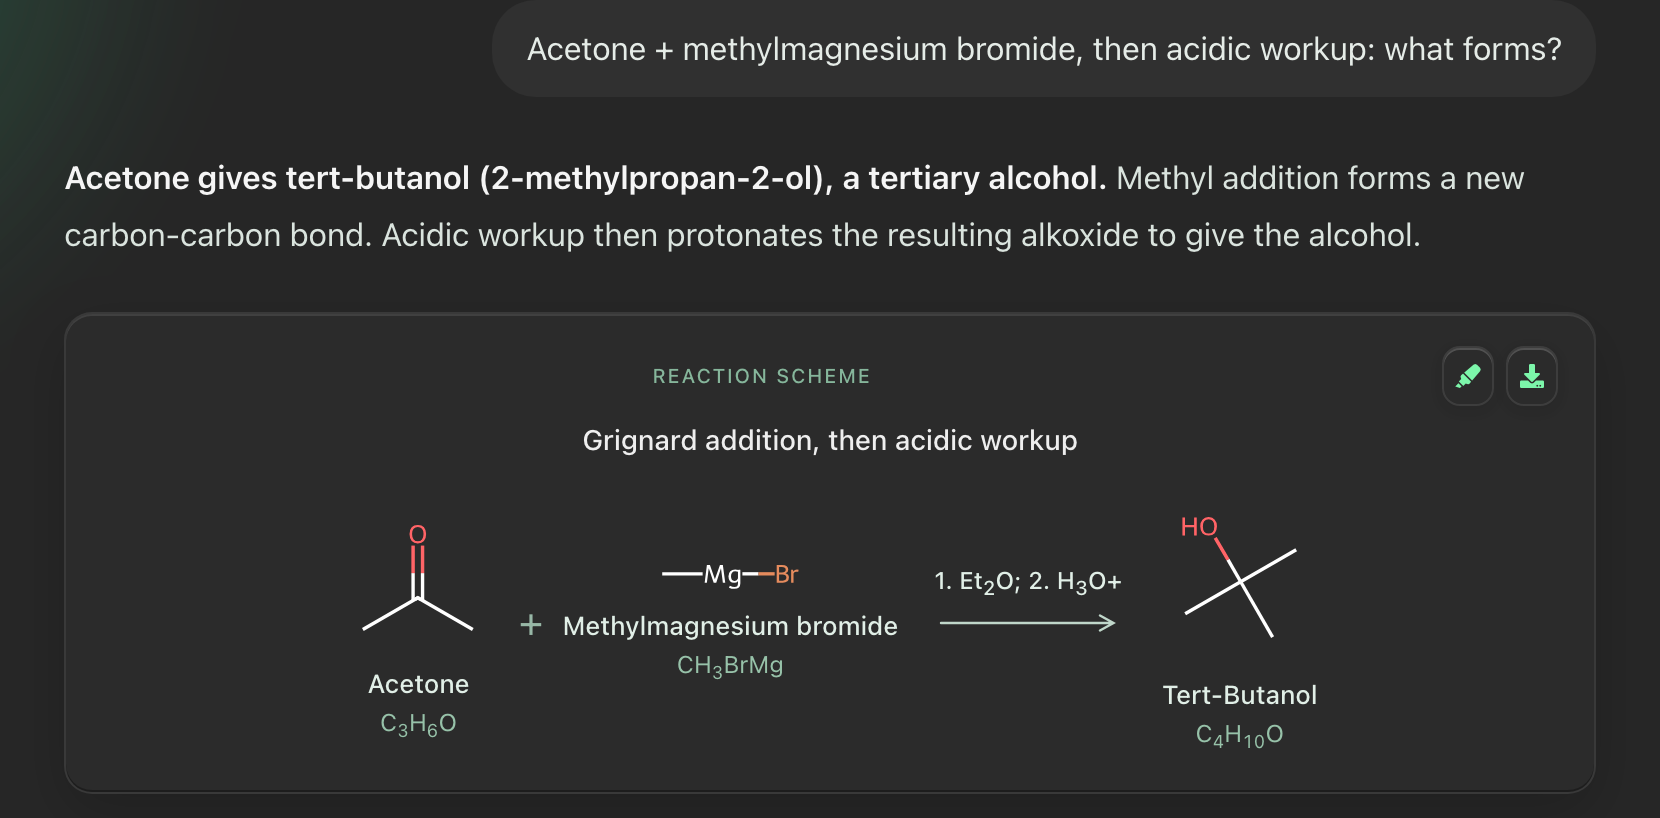
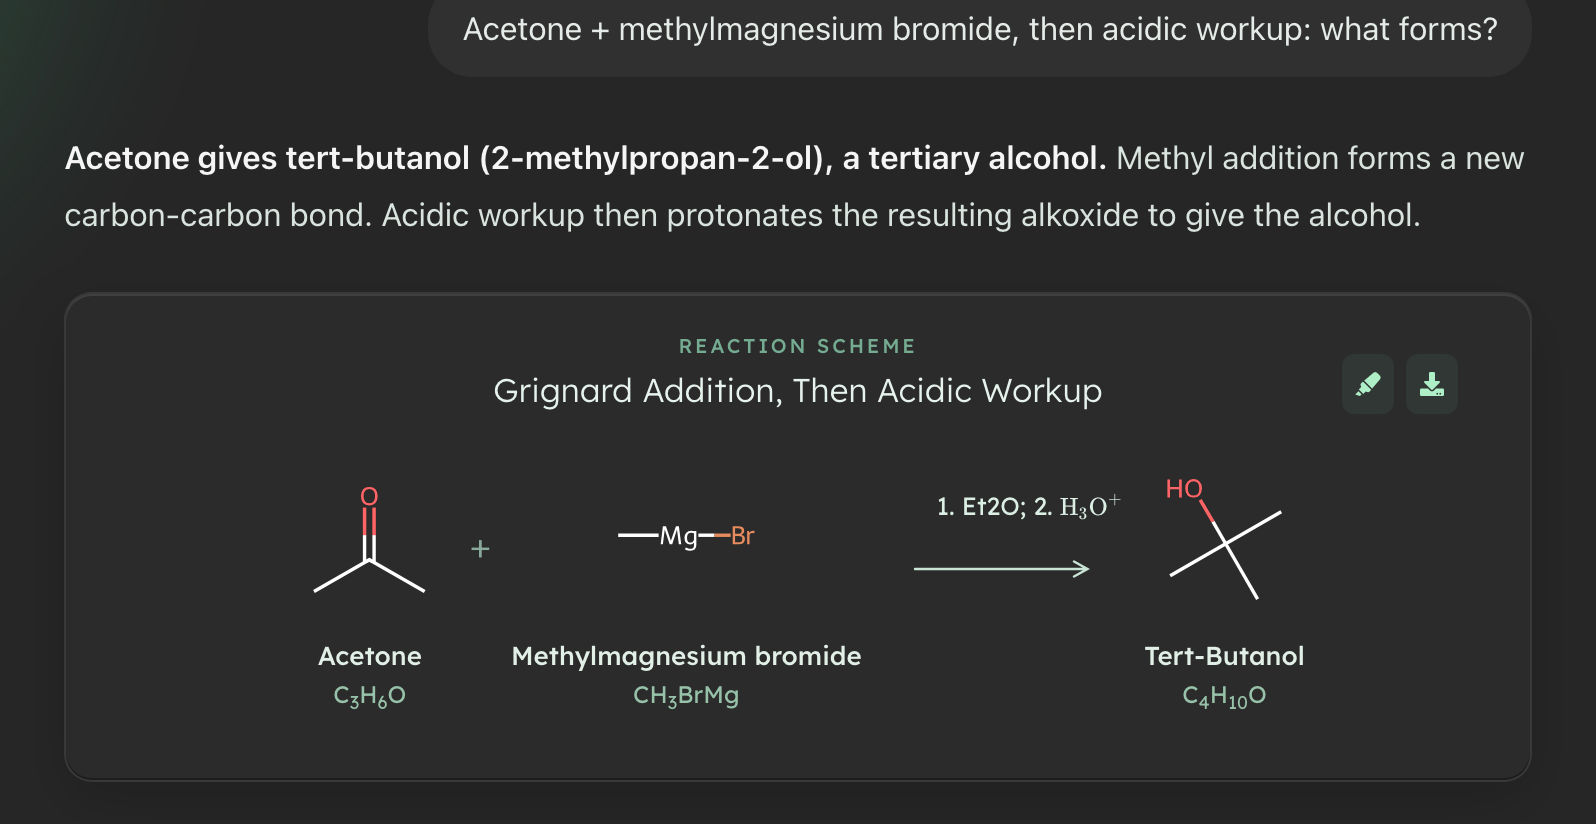
Fresh macOS screenshots for the README and website

diff --git a/website/index.html b/website/index.html
@@ -1,7 +1,7 @@
 <!doctype html>
 <html lang="en"><head><meta charset="utf-8"><meta name="viewport" content="width=device-width,initial-scale=1"><meta name="theme-color" content="#090d0b"><meta name="description" content="ChemEZ is a desktop AI chemistry tutor with molecular structures, reaction schemes, and mechanisms drawn directly in your answers."><title>ChemEZ · See the chemistry.</title><link rel="icon" href="assets/logo.png"><link rel="stylesheet" href="style.css"></head>
 <body><header class="nav wrap"><a class="brand" href="#"><img src="assets/logo.png" alt="" width="32" height="32">Chem<span>EZ</span></a><nav aria-label="Main navigation"><a href="#features">Features</a><a href="#download">Download</a><a href="https://github.com/researchbyayan/ChemEZ">GitHub ↗</a></nav></header>
-<main><section class="hero wrap"><h1>Don’t just read it.<br><em>See the chemistry.</em></h1><p class="intro">Your desktop AI chemistry tutor. Molecular structures, reaction schemes, and electron movement, drawn right into the explanation.</p><div class="actions"><a class="button primary" href="#download">Get ChemEZ <span>↓</span></a><a class="button" href="#demo">See it in action <span>↗</span></a></div><p class="small">Free for Mac, Windows and Linux · Bring your own API key · Open source</p><div class="preview" id="demo"><img src="assets/workspace.png" alt="ChemEZ desktop workspace with a benzene-to-chlorobenzene synthesis question, mechanism mode, chat history, and structure library." width="1440" height="814" loading="eager"></div><div class="preview answer-preview"><div class="preview-bar"><span class="dot"></span> ONE QUESTION. AN ANSWER YOU CAN SEE.<span class="tag">CHEMEZ DESKTOP</span></div><img src="assets/demo.png" alt="ChemEZ explains how acetone and methylmagnesium bromide produce tert-butanol, with a drawn reaction and molecular formulas." width="1638" loading="lazy"><p class="caption">A reproducible sample answer, rendered through ChemEZ and RDKit.</p></div></section>
+<main><section class="hero wrap"><h1>Don’t just read it.<br><em>See the chemistry.</em></h1><p class="intro">Your desktop AI chemistry tutor. Molecular structures, reaction schemes, and electron movement, drawn right into the explanation.</p><div class="actions"><a class="button primary" href="#download">Get ChemEZ <span>↓</span></a><a class="button" href="#demo">See it in action <span>↗</span></a></div><p class="small">Free for Mac, Windows and Linux · Bring your own API key · Open source</p><div class="preview" id="demo"><img src="assets/workspace.png" alt="ChemEZ on macOS: a benzene-to-chlorobenzene mechanism question in the message box, named chats in the sidebar, and the structure library." width="1280" height="780" loading="eager"></div><div class="preview answer-preview"><div class="preview-bar"><span class="dot"></span> ONE QUESTION. AN ANSWER YOU CAN SEE.<span class="tag">CHEMEZ DESKTOP</span></div><img src="assets/demo.png" alt="ChemEZ explains how acetone and methylmagnesium bromide produce tert-butanol, with a drawn reaction and molecular formulas." width="1596" height="824" loading="lazy"><p class="caption">A reproducible sample answer, rendered through ChemEZ and RDKit.</p></div></section>
 <section class="wrap section" id="features"><div class="eyebrow">FROM A MOLECULE TO A MECHANISM</div><h2>Chemistry has a visual language.</h2><p class="section-intro">ChemEZ brings it into the conversation.</p><div class="features"><article><span class="number">01 / STRUCTURES</span><h3>Start with the molecule.</h3><p>Validated 2D drawings, IUPAC names, molecular formulas, interactive 3D exploration, and PNG exports.</p></article><article><span class="number">02 / REACTIONS</span><h3>Follow the transformation.</h3><p>See reactants, products, reagents, and conditions together in a readable reaction scheme.</p></article><article><span class="number">03 / MECHANISMS</span><h3>Follow the electrons.</h3><p>Explore resonance contributors, lone pairs, formal charges, and curved arrows, with 24 labelled mechanism families and fishhook arrows for radicals.</p></article><article><span class="number">04 / SPECTRA</span><h3>Read the peaks.</h3><p>IR, ¹H and ¹³C NMR, and mass spectra plotted from the answer’s peak tables, with labelled peaks you can highlight.</p></article></div><p class="small next">Spectra, mechanism families, typeset formulas and DOI-linked references arrive in the next release. They are on GitHub now.</p><div class="details"><div><h3>Your question. Your pace.</h3><p>Switch between Quick Answer, Explain, and Mechanism modes. Adjust the learning level, attach a chemistry image, or activate a slash command for focused help.</p></div><div><h3>Your model. Your workspace.</h3><p>Connect NVIDIA, Gemini, OpenAI, Anthropic, OpenRouter, or a compatible endpoint. Chats name themselves, search past chats and revisit saved structures. Unit conversions, formula masses and equation balancing run offline. An optional image reader can work alongside your chat model.</p></div></div></section>
 <section class="wrap section downloads" id="download"><div class="eyebrow">TAKE CHEMEZ FOR A SPIN</div><h2>Made for your desktop.</h2><p class="section-intro">The chemistry runtime comes bundled. No separate Python or Node.js installation.</p><div class="download-grid"><a class="download" href="https://github.com/researchbyayan/ChemEZ/releases/download/0.1.3/ChemEZ-0.1.3-mac-arm64.dmg"><span>Mac · Apple Silicon<small>macOS 14+ · DMG</small></span><b aria-hidden="true">↓</b></a><a class="download" href="https://github.com/researchbyayan/ChemEZ/releases/download/0.1.3/ChemEZ-0.1.3-mac-x64.dmg"><span>Mac · Intel<small>macOS 14+ · DMG</small></span><b aria-hidden="true">↓</b></a><a class="download" href="https://github.com/researchbyayan/ChemEZ/releases/download/0.1.3/ChemEZ-0.1.3-win-x64.exe"><span>Windows<small>Windows 10 / 11 · x64 setup</small></span><b aria-hidden="true">↓</b></a><a class="download" href="https://github.com/researchbyayan/ChemEZ/releases/download/0.1.3/ChemEZ-0.1.3-linux-x86_64.AppImage"><span>Linux<small>x64 · AppImage</small></span><b aria-hidden="true">↓</b></a></div><p class="small">Version 0.1.3 · Unsigned builds. Read the <a href="https://github.com/researchbyayan/ChemEZ/releases/tag/0.1.3">release notes and opening instructions</a> before installing.</p><p class="small">ChemEZ offers new versions in the app, at most once a week.</p><p class="small"><a href="https://github.com/researchbyayan/ChemEZ/releases/download/0.1.3/SHA256SUMS.txt">SHA256 checksums ↗</a></p></section>
 <section class="wrap section start"><div><div class="eyebrow">THREE STEPS TO YOUR FIRST STRUCTURE</div><h2>Open. Connect. Ask.</h2></div><ol><li><span>1</span>Install ChemEZ for your platform.</li><li><span>2</span>Connect a model in Model &amp; API.</li><li><span>3</span>Try “Show benzene’s resonance contributors.”</li></ol></section></main>
